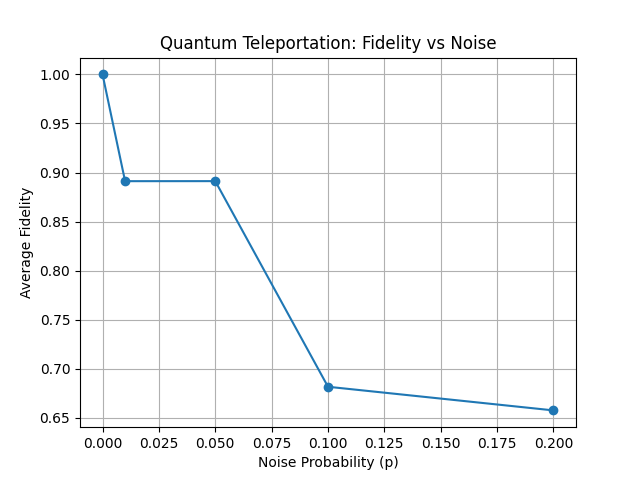
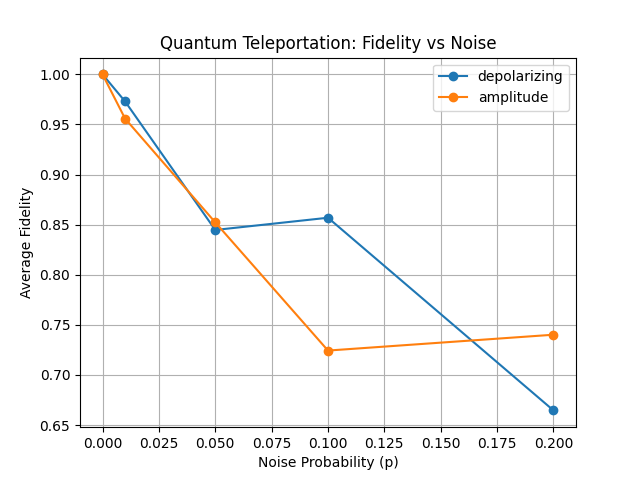
added amplitutude damping, another type of noise

diff --git a/experiments/run_experiments.py b/experiments/run_experiments.py
@@ -1,4 +1,5 @@
 import numpy as np
+import json
 from qiskit_aer import Aer
 
 from circuits.teleportation import create_teleportation_circuit
@@ -10,36 +11,51 @@ def run():
     backend = Aer.get_backend("aer_simulator")
 
     noise_levels = [0, 0.01, 0.05, 0.1, 0.2]
-    results = []
+    noise_types = ["depolarizing", "amplitude"]
 
-    for p in noise_levels:
-        noise_model = create_noise_model(p)
-        fidelities = []
+    all_results = {}
 
-        for _ in range(30):
-            theta = np.random.uniform(0, np.pi)
-            phi = np.random.uniform(0, 2*np.pi)
+    for noise_type in noise_types:
+        print(f"\nRunning for noise type: {noise_type}")
 
-            qc = create_teleportation_circuit(theta, phi)
+        results = []
 
-            # -------- IDEAL --------
-            ideal_qc = qc.copy()
-            ideal_qc.save_statevector()
-            ideal_result = backend.run(ideal_qc).result()
-            ideal_sv = ideal_result.get_statevector()
+        for p in noise_levels:
+            noise_model = create_noise_model(p, noise_type)
+            fidelities = []
 
-            # -------- NOISY --------
-            noisy_qc = qc.copy()
-            noisy_qc.save_statevector()
-            noisy_result = backend.run(noisy_qc, noise_model=noise_model).result()
-            noisy_sv = noisy_result.get_statevector()
+            for _ in range(30):
+                theta = np.random.uniform(0, np.pi)
+                phi = np.random.uniform(0, 2*np.pi)
 
-            fidelity = compute_fidelity(ideal_sv, noisy_sv)
-            fidelities.append(fidelity)
+                qc = create_teleportation_circuit(theta, phi)
 
-        avg_fidelity = np.mean(fidelities)
-        results.append((p, avg_fidelity))
+                # -------- IDEAL --------
+                ideal_qc = qc.copy()
+                ideal_qc.save_statevector()
+                ideal_result = backend.run(ideal_qc).result()
+                ideal_sv = ideal_result.get_statevector()
 
-        print(f"Noise: {p}, Avg Fidelity: {avg_fidelity:.4f}")
+                # -------- NOISY --------
+                noisy_qc = qc.copy()
+                noisy_qc.save_statevector()
+                noisy_result = backend.run(noisy_qc, noise_model=noise_model).result()
+                noisy_sv = noisy_result.get_statevector()
 
-    return results
+                fidelity = compute_fidelity(ideal_sv, noisy_sv)
+                fidelities.append(fidelity)
+
+            avg_fidelity = np.mean(fidelities)
+            results.append((p, avg_fidelity))
+
+            print(f"{noise_type} | Noise: {p}, Fidelity: {avg_fidelity:.4f}")
+
+        all_results[noise_type] = results
+
+    # Save results to JSON
+    with open("results.json", "w") as f:
+        json.dump(all_results, f, indent=4)
+
+    print("Results saved to results.json")
+
+    return all_results

diff --git a/noise/noise_models.py b/noise/noise_models.py
@@ -1,13 +1,23 @@
-from qiskit_aer.noise import NoiseModel, depolarizing_error
+from qiskit_aer.noise import amplitude_damping_error
+
+from qiskit_aer.noise import NoiseModel, depolarizing_error, amplitude_damping_error
 
 
-def create_noise_model(p):
+def create_noise_model(p, noise_type="depolarizing"):
     noise_model = NoiseModel()
 
-    error_1 = depolarizing_error(p, 1)
-    error_2 = depolarizing_error(p, 2)
+    if noise_type == "depolarizing":
+        error_1 = depolarizing_error(p, 1)
+        error_2 = depolarizing_error(p, 2)
 
-    # Apply to actual gates used
+    elif noise_type == "amplitude":
+        error_1 = amplitude_damping_error(p)
+        error_2 = amplitude_damping_error(p).tensor(amplitude_damping_error(p))
+
+    else:
+        raise ValueError("Unknown noise type")
+
+    # Apply noise to gates used in circuit
     noise_model.add_all_qubit_quantum_error(error_1, ['h', 'ry', 'rz'])
     noise_model.add_all_qubit_quantum_error(error_2, ['cx'])
 

diff --git a/analysis/visualization.py b/analysis/visualization.py
@@ -1,20 +1,23 @@
 import matplotlib
-matplotlib.use('Agg')  # no GUI needed
+matplotlib.use('Agg')
 
 import matplotlib.pyplot as plt
 
 
-def plot_results(results):
-    noise_levels = [r[0] for r in results]
-    avg_fidelity = [r[1] for r in results]
-
+def plot_results(results_dict):
     plt.figure()
-    plt.plot(noise_levels, avg_fidelity, marker='o')
+
+    for noise_type, results in results_dict.items():
+        noise_levels = [r[0] for r in results]
+        avg_fidelity = [r[1] for r in results]
+
+        plt.plot(noise_levels, avg_fidelity, marker='o', label=noise_type)
 
     plt.xlabel("Noise Probability (p)")
     plt.ylabel("Average Fidelity")
     plt.title("Quantum Teleportation: Fidelity vs Noise")
 
+    plt.legend()
     plt.grid()
 
     plt.savefig("results_plot.png")
